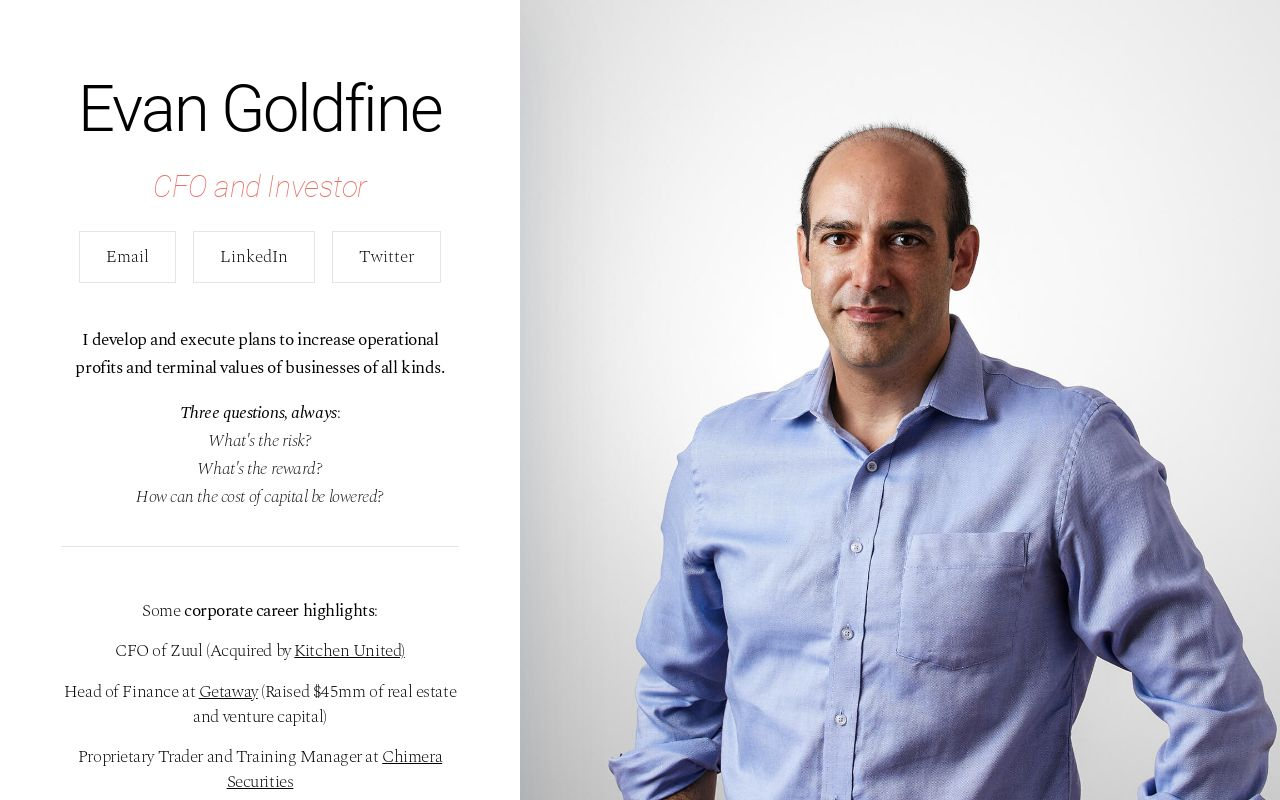
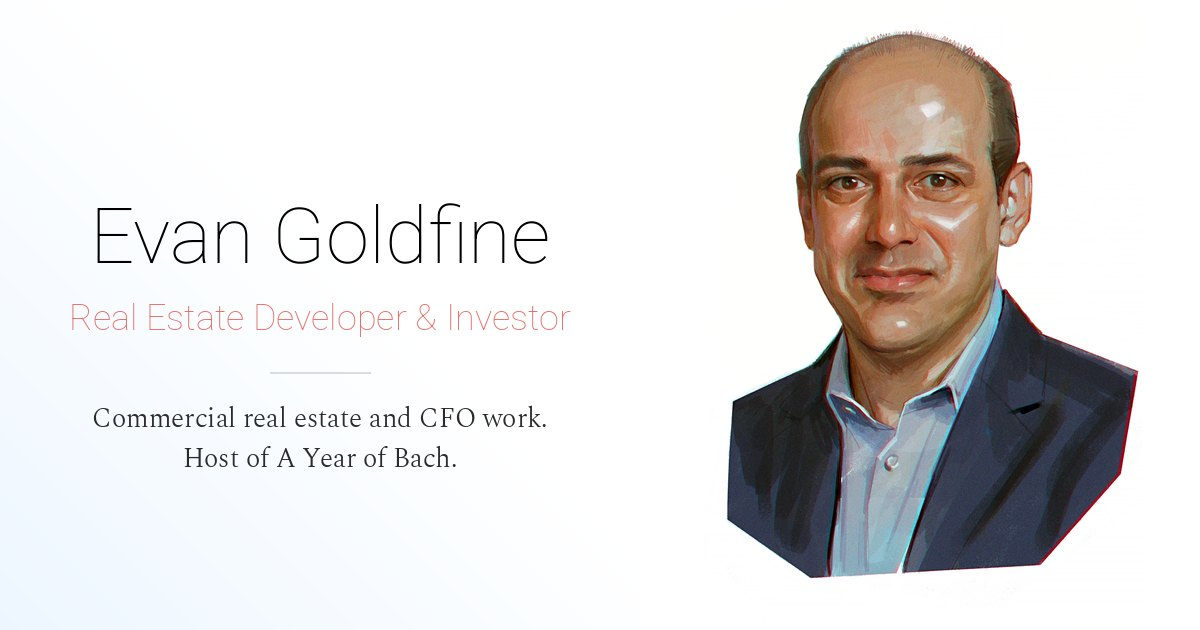
Add files via upload

diff --git a/index.html b/index.html
@@ -2,23 +2,125 @@
 <html lang="en">
 
 <head>
-    <title>Evan Goldfine</title>
+    <title>Evan Goldfine | Real Estate Developer, Investor &amp; CFO</title>
     <meta charset="utf-8" />
-    <meta name="viewport" content="width=device-width,initial-scale=1,user-scalable=no" />
-    <meta name="description" content="Profile for Evan Goldfine, Real Estate Developer & Investor; host of A Year of Bach (blog + podcast)." />
+    <meta name="viewport" content="width=device-width,initial-scale=1" />
+    <meta name="description" content="Evan Goldfine buys, builds, and operates commercial real estate in Connecticut and New York, works as a startup CFO, and hosts A Year of Bach, a Bach podcast." />
+    <meta name="author" content="Evan Goldfine" />
     <meta property="og:site_name" content="Evan Goldfine" />
-    <meta property="og:title" content="Evan Goldfine" />
-    <meta property="og:type" content="website" />
-    <meta property="og:description" content="Profile for Evan Goldfine, Real Estate Developer & Investor; host of A Year of Bach (blog + podcast)." />
-    <meta property="og:image" content="card.jpg?v=20250819" />
+    <meta property="og:title" content="Evan Goldfine | Real Estate Developer, Investor &amp; CFO" />
+    <meta property="og:type" content="profile" />
+    <meta property="profile:first_name" content="Evan" />
+    <meta property="profile:last_name" content="Goldfine" />
+    <meta property="og:description" content="Evan Goldfine buys, builds, and operates commercial real estate in Connecticut and New York, works as a startup CFO, and hosts A Year of Bach, a Bach podcast." />
+    <meta property="og:image" content="https://evangoldfine.com/card.jpg?v=20260925" />
     <meta property="og:image:type" content="image/jpeg" />
     <meta property="og:image:width" content="1200" />
     <meta property="og:image:height" content="630" />
-    <meta property="og:url" content="https://evangoldfine.com" />
-    <meta property="twitter:card" content="summary_large_image" />
-    <link rel="canonical" href="https://evangoldfine.com" />
+    <meta property="og:image:alt" content="Illustrated portrait of Evan Goldfine beside his name and title" />
+    <meta property="og:url" content="https://evangoldfine.com/" />
+    <meta name="twitter:card" content="summary_large_image" />
+    <meta name="twitter:creator" content="@isthismymoney" />
+    <link rel="canonical" href="https://evangoldfine.com/" />
+    <link rel="alternate" type="application/rss+xml" title="A Year of Bach" href="https://yearofbach.substack.com/feed" />
+    <link rel="preload" as="image" href="illustration-1600.webp" type="image/webp" media="(min-width: 981px)" fetchpriority="high" />
+    <link rel="preload" as="image" href="illustration-900.webp" type="image/webp" media="(max-width: 980px)" fetchpriority="high" />
+    <link rel="preconnect" href="https://fonts.googleapis.com" />
+    <link rel="preconnect" href="https://fonts.gstatic.com" crossorigin />
+    <script type="application/ld+json">
+{
+  "@context": "https://schema.org",
+  "@graph": [
+    {
+      "@type": "WebSite",
+      "@id": "https://evangoldfine.com/#website",
+      "url": "https://evangoldfine.com/",
+      "name": "Evan Goldfine",
+      "publisher": {
+        "@id": "https://evangoldfine.com/#person"
+      }
+    },
+    {
+      "@type": "ProfilePage",
+      "@id": "https://evangoldfine.com/#profile",
+      "url": "https://evangoldfine.com/",
+      "name": "Evan Goldfine",
+      "isPartOf": {
+        "@id": "https://evangoldfine.com/#website"
+      },
+      "mainEntity": {
+        "@id": "https://evangoldfine.com/#person"
+      },
+      "dateModified": "2026-09-25"
+    },
+    {
+      "@type": "Person",
+      "@id": "https://evangoldfine.com/#person",
+      "name": "Evan Goldfine",
+      "url": "https://evangoldfine.com/",
+      "image": "https://evangoldfine.com/illustration-900.jpg",
+      "jobTitle": [
+        "Real Estate Developer",
+        "Investor",
+        "CFO"
+      ],
+      "description": "Evan Goldfine buys, builds, and operates commercial real estate in Connecticut and New York, works as a startup CFO, and hosts A Year of Bach, a Bach podcast.",
+      "worksFor": [
+        {
+          "@type": "Organization",
+          "name": "Routine Properties",
+          "url": "https://routineproperties.com/"
+        },
+        {
+          "@type": "Organization",
+          "name": "Bloom Self-Storage",
+          "url": "https://bloomselfstorage.com/"
+        },
+        {
+          "@type": "RealEstateAgent",
+          "name": "Goldfine Realty"
+        }
+      ],
+      "knowsAbout": [
+        "Commercial real estate",
+        "Real estate development",
+        "Self storage",
+        "Corporate finance",
+        "Johann Sebastian Bach",
+        "Classical music"
+      ],
+      "sameAs": [
+        "https://www.linkedin.com/in/evangoldfine000/",
+        "https://x.com/isthismymoney",
+        "https://twitter.com/isthismymoney",
+        "https://medium.com/@evangoldfine",
+        "https://yearofbach.substack.com/"
+      ]
+    },
+    {
+      "@type": "PodcastSeries",
+      "@id": "https://yearofbach.substack.com/#podcast",
+      "name": "A Year of Bach",
+      "url": "https://yearofbach.substack.com/",
+      "webFeed": "https://yearofbach.substack.com/feed",
+      "description": "A blog and podcast about the music of Johann Sebastian Bach, hosted by Evan Goldfine.",
+      "about": {
+        "@type": "Person",
+        "name": "Johann Sebastian Bach",
+        "sameAs": "https://en.wikipedia.org/wiki/Johann_Sebastian_Bach"
+      },
+      "author": {
+        "@id": "https://evangoldfine.com/#person"
+      },
+      "creator": {
+        "@id": "https://evangoldfine.com/#person"
+      }
+    }
+  ]
+}
+    </script>
     <link
-        href="https://fonts.googleapis.com/css?family=Roboto:300,300italic,100,100italic,400,400italic%7CSpectral:200,200italic,400,400italic"
+        href="https://fonts.googleapis.com/css?family=Roboto:300,300italic,100,100italic,400,400italic%7CSpectral:200,200italic,400,400italic&amp;display=swap"
         rel="stylesheet" type="text/css" />
     <style>
         html,
@@ -202,7 +304,8 @@
             transform: scale(1);
             background-attachment: scroll;
             right: 0;
-            background-image: url('bg1.jpg?v=20250901');
+            background-image: url('illustration-1600.jpg');
+            background-image: image-set(url('illustration-1600.webp') type('image/webp'), url('illustration-1600.jpg') type('image/jpeg'));
             background-position: top;
             background-repeat: repeat;
             background-size: cover;
@@ -1730,6 +1833,46 @@
                 margin-bottom: calc(-1.875rem) !important;
             }
         }
+
+        @media (max-width: 980px) {
+            body:before {
+                background-image: url('illustration-900.jpg');
+                background-image: image-set(url('illustration-900.webp') type('image/webp'), url('illustration-900.jpg') type('image/jpeg'));
+            }
+        }
+
+        #footer01 {
+            margin-top: 3rem;
+            padding-top: 2rem;
+            border-top: solid 1px rgba(0, 0, 0, 0.102);
+            font-family: 'Spectral', serif;
+            font-weight: 200;
+            font-size: 0.875em;
+            line-height: 1.6;
+            color: #000000;
+        }
+
+        #footer01 p + p {
+            margin-top: 0.75rem;
+        }
+
+        #footer01 nav a {
+            display: inline-block;
+            margin: 0 0.5rem;
+            color: inherit;
+            text-decoration: underline;
+        }
+
+        #footer01 a:hover {
+            color: #E87068;
+        }
+
+        #footer01 a:focus-visible,
+        #buttons01 a:focus-visible,
+        #main a:focus-visible {
+            outline: 2px solid #3B5DAD;
+            outline-offset: 2px;
+        }
     </style><noscript>
         <style>
             body {
@@ -1786,7 +1929,7 @@
                                         class="button n01">Email</a></li>
                                 <li><a href="https://www.linkedin.com/in/evangoldfine000/"
                                         class="button n02">LinkedIn</a></li>
-                                <li><a href="https://twitter.com/isthismymoney" class="button n03">Twitter</a></li>
+                                <li><a href="https://x.com/isthismymoney" class="button n03">X (Twitter)</a></li>
                                 <li><a href="https://yearofbach.substack.com/" class="button n04">A Year of Bach Blog and Podcast</a></li>
                             </ul>
                         </div>
@@ -1797,22 +1940,22 @@
                     <span>As a CFO, I carry the flashlight, always scanning for pitfalls and lighting ways around them.</span></p>
 <hr id="divider01">
 <p id="text05"><span><strong>Real estate &amp; ventures</strong>:</span><br /> <br />
-                    <span>General Partner of <a href="http://routineproperties.com">Routine Properties</a> and <a href="http://bloomselfstorage.com">Bloom Self&#8209;Storage</a></span><br /> <br />
+                    <span>General Partner of <a href="https://routineproperties.com/">Routine Properties</a> and <a href="https://bloomselfstorage.com/">Bloom Self&#8209;Storage</a></span><br /> <br />
                     <span>Owner of Goldfine Realty (NYS Licensed Real Estate Brokerage)</span><br /> <br />
-                    <span>Partner at <a href="http://www.kronchocolatier.com">Kron Chocolatier</a>, Long Island&#39;s
+                    <span>Partner at <a href="https://www.kronchocolatier.com/">Kron Chocolatier</a>, Long Island&#39;s
                         finest chocolate shop</span><br /> <br />
                     <span>Select advisory / fractional CFO work at several startups, including <a
-                            href="http://figure8.digital">Figure 8 Logistics</a></span></p>
+                            href="https://figure8.digital/">Figure 8 Logistics</a></span></p>
                 
                 <div id="container03" class="container default">
                     <div class="wrapper">
                         <div class="inner">
                             <p id="text04"><span>Previous roles in <strong>finance &amp; ops</strong>:</span><br /> <br />
-                                <span>CFO of Zuul (Acquired by <a href="http://kitchenunited.com">Kitchen
+                                <span>CFO of Zuul (Acquired by <a href="https://kitchenunited.com/">Kitchen
                                         United)</a></span><br /> <br /> <span>Head of Finance at <a
-                                        href="http://getaway.house">Getaway</a> (Raised $45mm of real estate and venture
+                                        href="https://postcardcabins.com/">Getaway</a>, now Postcard Cabins (Raised $45mm of real estate and venture
                                     capital)</span><br /> <br /> <span>Proprietary Trader and Training Manager at <a
-                                        href="http://chimerasecurities.com">Chimera Securities</a></span></p>
+                                        href="https://chimerasecurities.com/">Chimera Securities</a></span></p>
                         </div>
                     </div>
                 </div>
@@ -1820,7 +1963,7 @@
                         organizations:</span><br /> <br /> <span><a href="https://www.trustysidekick.org/">Trusty
                             Sidekick Theater Company</a>, a children&#39;s theater production company, with a special
                         focus on programming for neurodiverse audiences.</span><br /> <br /> <span><a
-                            href="http://www.classnotesinfo.org/about/">ClassNotes</a>, an organization of professional
+                            href="https://www.classnotesinfo.org/about/">ClassNotes</a>, an organization of professional
                         musicians committed to sharing classical music with schools and communities through interactive
                         workshops and concerts.</span></p>
                 <hr id="divider02">
@@ -1832,7 +1975,18 @@
                         1988, <a href="https://www.youtube.com/watch?v=WSRWACZZPbk&amp;t=275s">I won an electric
                             guitar</a> despite a middling athletic performance on a kids TV game show called Steampipe
                         Alley.</span></p>
-                <p class="illustration-credit">Illustration by <a href="https://www.instagram.com/jensclaessens/?hl=en" target="_blank">Jens Claessens</a></p>
+                <footer id="footer01">
+                    <p>Evan Goldfine is a commercial real estate developer and investor, a startup CFO, and the host of <a href="https://yearofbach.substack.com/">A Year of Bach</a>.</p>
+                    <nav aria-label="Elsewhere">
+                        <a href="&#109;&#97;&#105;&#108;&#116;&#111;&#58;%67%6f%6c%64%66%69%6e%65%40%67%6d%61%69%6c%2e%63%6f%6d">Email</a>
+                        <a href="https://www.linkedin.com/in/evangoldfine000/">LinkedIn</a>
+                        <a href="https://x.com/isthismymoney">X (Twitter)</a>
+                        <a href="https://medium.com/@evangoldfine">Medium</a>
+                        <a href="https://yearofbach.substack.com/">A Year of Bach</a>
+                        <a href="/now/">Now</a>
+                    </nav>
+                    <p class="illustration-credit">Illustration by <a href="https://www.instagram.com/jensclaessens/?hl=en" target="_blank" rel="noopener">Jens Claessens</a></p>
+                </footer>
             </div>
             </div>
         </div>

diff --git a/now/index.html b/now/index.html
@@ -1,0 +1,70 @@
+<!DOCTYPE html>
+<html lang="en">
+<head>
+    <meta charset="utf-8" />
+    <meta name="viewport" content="width=device-width,initial-scale=1" />
+    <title>What Evan Goldfine is doing now</title>
+    <meta name="description" content="What Evan Goldfine is focused on now: commercial real estate in Connecticut and New York, CFO work, and the A Year of Bach podcast." />
+    <link rel="canonical" href="https://evangoldfine.com/now/" />
+    <meta property="og:title" content="What Evan Goldfine is doing now" />
+    <meta property="og:url" content="https://evangoldfine.com/now/" />
+    <meta property="og:image" content="https://evangoldfine.com/card.jpg?v=20260925" />
+    <meta name="twitter:card" content="summary_large_image" />
+    <link rel="preconnect" href="https://fonts.googleapis.com" />
+    <link rel="preconnect" href="https://fonts.gstatic.com" crossorigin />
+    <link href="https://fonts.googleapis.com/css?family=Roboto:100,300%7CSpectral:200,400&amp;display=swap" rel="stylesheet" />
+    <style>
+        :root { color-scheme: light; }
+        * { box-sizing: border-box; }
+        body {
+            margin: 0;
+            min-height: 100vh;
+            background: linear-gradient(45deg, #EDF6FF 0%, #FFFFFF 39%) fixed;
+            color: #000;
+            font-family: 'Spectral', Georgia, serif;
+            font-weight: 200;
+            font-size: 1.125rem;
+            line-height: 1.7;
+        }
+        main { max-width: 36rem; margin: 0 auto; padding: 4rem 1.5rem 3rem; }
+        h1 {
+            font-family: 'Roboto', Helvetica, Arial, sans-serif;
+            font-weight: 300;
+            font-size: 2.75rem;
+            letter-spacing: -0.06rem;
+            line-height: 1.2;
+            margin: 0 0 0.25rem;
+        }
+        .updated { color: #E87068; font-family: 'Roboto', Helvetica, Arial, sans-serif; font-weight: 300; margin: 0 0 2.5rem; }
+        h2 { font-weight: 400; font-size: 1.125rem; margin: 2rem 0 0.25rem; }
+        p { margin: 0 0 1rem; }
+        a { color: inherit; }
+        a:hover { color: #E87068; }
+        a:focus-visible { outline: 2px solid #3B5DAD; outline-offset: 2px; }
+        footer { margin-top: 3rem; padding-top: 1.5rem; border-top: 1px solid rgba(0,0,0,0.1); font-size: 0.9rem; }
+        footer a { margin-right: 1rem; }
+    </style>
+</head>
+<body>
+    <main>
+        <h1>Now</h1>
+        <p class="updated">Updated September 2026</p>
+
+        <h2>Real estate</h2>
+        <p>Acquiring, repositioning, and leasing commercial property in Connecticut, Westchester, and upstate New York through <a href="https://routineproperties.com/">Routine Properties</a>, and operating self-storage facilities in Connecticut and Massachusetts through <a href="https://bloomselfstorage.com/">Bloom Self-Storage</a>.</p>
+
+        <h2>Finance</h2>
+        <p>Serving as CFO of <a href="https://figure8.digital/">Figure 8 Logistics</a>, and taking on select fractional CFO work.</p>
+
+        <h2>Music</h2>
+        <p>Writing and recording <a href="https://yearofbach.substack.com/">A Year of Bach</a>, a blog and podcast about the music of J.&nbsp;S. Bach.</p>
+
+        <footer>
+            <a href="/">Home</a>
+            <a href="https://www.linkedin.com/in/evangoldfine000/">LinkedIn</a>
+            <a href="https://yearofbach.substack.com/">A Year of Bach</a>
+            <p style="margin-top:1rem">This is a <a href="https://nownownow.com/about">now page</a>.</p>
+        </footer>
+    </main>
+</body>
+</html>
